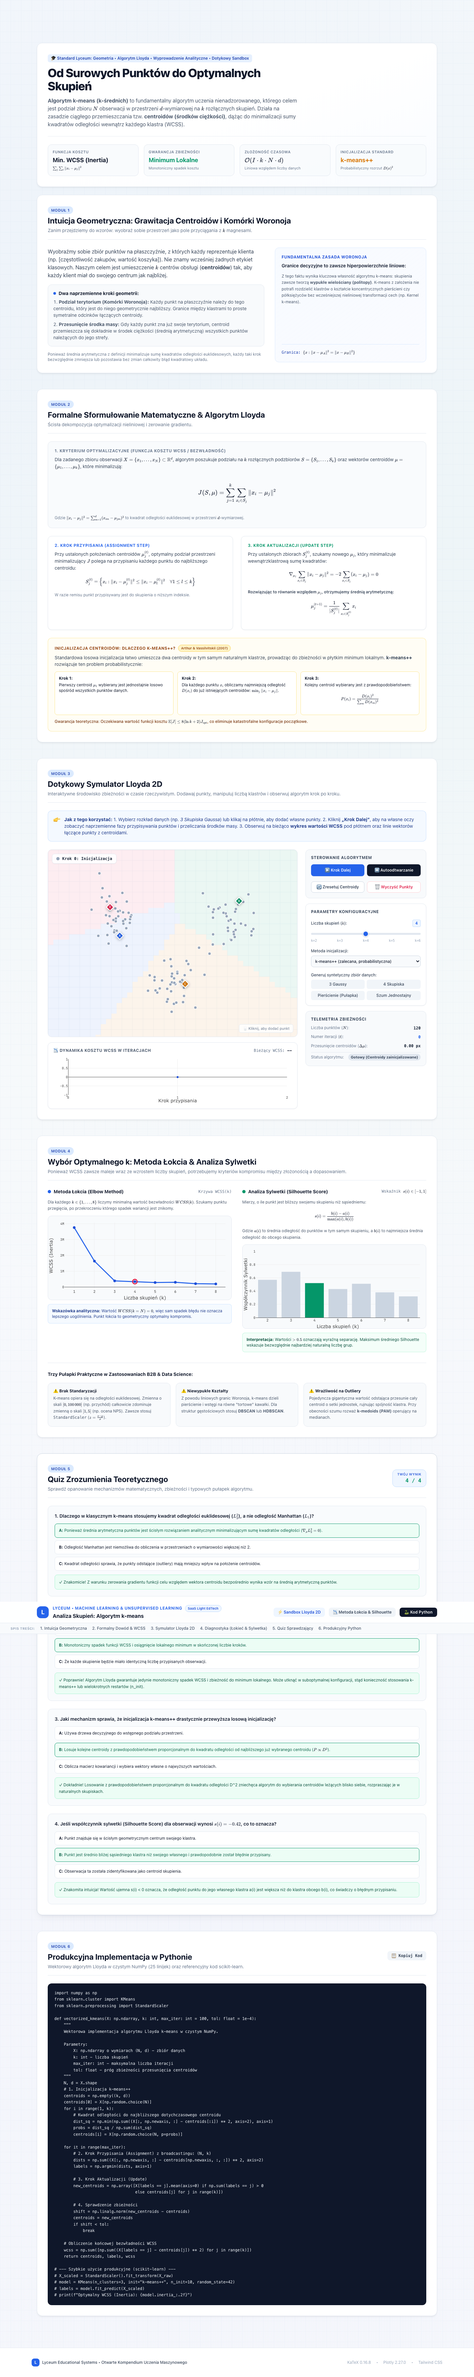
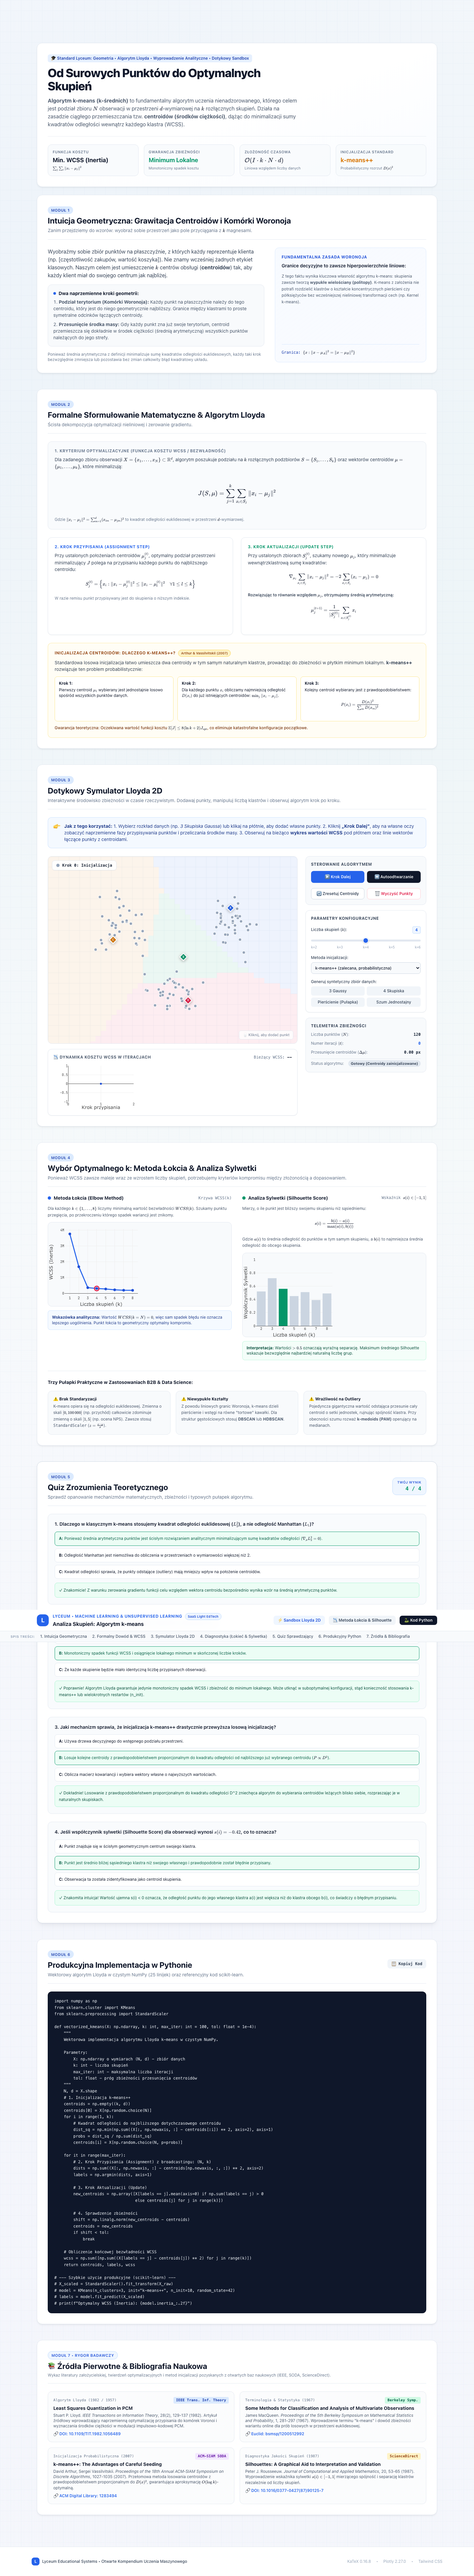
feat(lyceum): add primary sources bibliography, video renderer, and layout QA verification

diff --git a/index.html b/index.html
@@ -64,6 +64,7 @@
       <a href="#module4" class="hover:text-blue-600 transition-colors">4. Diagnostyka (Łokieć & Sylwetka)</a>
       <a href="#module5" class="hover:text-blue-600 transition-colors">5. Quiz Sprawdzający</a>
       <a href="#module6" class="hover:text-blue-600 transition-colors">6. Produkcyjny Python</a>
+      <a href="#module7" class="hover:text-blue-600 transition-colors">7. Źródła & Bibliografia</a>
     </nav>
   </header>
 
@@ -672,6 +673,85 @@ def vectorized_kmeans(X: np.ndarray, k: int, max_iter: int = 100, tol: float = 1
       </div>
       <div id="copyToast" class="hidden mt-3 p-2 bg-emerald-50 border border-emerald-200 text-emerald-800 text-xs font-semibold rounded-lg text-center">
         ✓ Skopiowano kod Pythona do schowka!
+      </div>
+    </section>
+
+    <!-- MODUŁ 7: 📚 Źródła Pierwotne & Bibliografia Naukowa -->
+    <section id="module7" class="saas-card p-6 sm:p-8">
+      <div class="border-b border-slate-200 pb-4 mb-6">
+        <span class="badge-pill bg-blue-50 text-blue-700 border border-blue-200">Moduł 7 • Rygor Badawczy</span>
+        <h3 class="text-xl sm:text-2xl font-bold text-slate-900 mt-1">
+          📚 Źródła Pierwotne & Bibliografia Naukowa
+        </h3>
+        <p class="text-xs text-slate-500 mt-1">
+          Wykaz literatury założycielskiej, twierdzeń optymalizacyjnych i metod inicjalizacji pozyskanych z otwartych baz naukowych (IEEE, SODA, ScienceDirect).
+        </p>
+      </div>
+
+      <div class="grid grid-cols-1 md:grid-cols-2 gap-4 text-xs">
+        <div class="p-4 rounded-xl border border-slate-200 bg-slate-50/50 hover:bg-slate-50 transition-colors">
+          <div class="flex items-center justify-between text-[11px] font-mono text-slate-500 mb-1">
+            <span>Algorytm Lloyda (1982 / 1957)</span>
+            <span class="px-2 py-0.5 rounded bg-blue-100 text-blue-800 font-semibold">IEEE Trans. Inf. Theory</span>
+          </div>
+          <h4 class="font-bold text-slate-900 text-sm mb-1">
+            Least Squares Quantization in PCM
+          </h4>
+          <p class="text-slate-600 mb-2">
+            Stuart P. Lloyd. <em>IEEE Transactions on Information Theory</em>, 28(2), 129-137 (1982). Artykuł źródłowy wprowadzający naprzemienną optymalizację przypisania do komórek Voronoi i wyznaczania środków ciężkości w modulacji impulsowo-kodowej PCM.
+          </p>
+          <a href="https://doi.org/10.1109/TIT.1982.1056489" target="_blank" rel="noopener noreferrer" class="inline-flex items-center gap-1 text-blue-600 font-semibold hover:underline">
+            <span>🔗 DOI: 10.1109/TIT.1982.1056489</span>
+          </a>
+        </div>
+
+        <div class="p-4 rounded-xl border border-slate-200 bg-slate-50/50 hover:bg-slate-50 transition-colors">
+          <div class="flex items-center justify-between text-[11px] font-mono text-slate-500 mb-1">
+            <span>Terminologia & Statystyka (1967)</span>
+            <span class="px-2 py-0.5 rounded bg-emerald-100 text-emerald-800 font-semibold">Berkeley Symp.</span>
+          </div>
+          <h4 class="font-bold text-slate-900 text-sm mb-1">
+            Some Methods for Classification and Analysis of Multivariate Observations
+          </h4>
+          <p class="text-slate-600 mb-2">
+            James MacQueen. <em>Proceedings of the 5th Berkeley Symposium on Mathematical Statistics and Probability</em>, 1, 281-297 (1967). Wprowadzenie terminu "k-means" i dowód zbieżności wariantu online dla prób losowych w przestrzeni euklidesowej.
+          </p>
+          <a href="https://projecteuclid.org/euclid.bsmsp/1200512992" target="_blank" rel="noopener noreferrer" class="inline-flex items-center gap-1 text-blue-600 font-semibold hover:underline">
+            <span>🔗 Euclid: bsmsp/1200512992</span>
+          </a>
+        </div>
+
+        <div class="p-4 rounded-xl border border-slate-200 bg-slate-50/50 hover:bg-slate-50 transition-colors">
+          <div class="flex items-center justify-between text-[11px] font-mono text-slate-500 mb-1">
+            <span>Inicjalizacja Probabilistyczna (2007)</span>
+            <span class="px-2 py-0.5 rounded bg-purple-100 text-purple-800 font-semibold">ACM-SIAM SODA</span>
+          </div>
+          <h4 class="font-bold text-slate-900 text-sm mb-1">
+            k-means++: The Advantages of Careful Seeding
+          </h4>
+          <p class="text-slate-600 mb-2">
+            David Arthur, Sergei Vassilvitskii. <em>Proceedings of the 18th Annual ACM-SIAM Symposium on Discrete Algorithms</em>, 1027-1035 (2007). Przełomowa metoda losowania centroidów z prawdopodobieństwem proporcjonalnym do \(D(x)^2\), gwarantująca aproksymację \(O(\log k)\)-optymalną.
+          </p>
+          <a href="https://doi.org/10.5555/1283383.1283494" target="_blank" rel="noopener noreferrer" class="inline-flex items-center gap-1 text-blue-600 font-semibold hover:underline">
+            <span>🔗 ACM Digital Library: 1283494</span>
+          </a>
+        </div>
+
+        <div class="p-4 rounded-xl border border-slate-200 bg-slate-50/50 hover:bg-slate-50 transition-colors">
+          <div class="flex items-center justify-between text-[11px] font-mono text-slate-500 mb-1">
+            <span>Diagnostyka Jakości Skupień (1987)</span>
+            <span class="px-2 py-0.5 rounded bg-amber-100 text-amber-800 font-semibold">ScienceDirect</span>
+          </div>
+          <h4 class="font-bold text-slate-900 text-sm mb-1">
+            Silhouettes: A Graphical Aid to Interpretation and Validation
+          </h4>
+          <p class="text-slate-600 mb-2">
+            Peter J. Rousseeuw. <em>Journal of Computational and Applied Mathematics</em>, 20, 53-65 (1987). Wyprowadzenie wskaźnika sylwetki \(s(i) \in [-1, 1]\) mierzącego spójność i separację klastrów niezależnie od liczby skupień.
+          </p>
+          <a href="https://doi.org/10.1016/0377-0427(87)90125-7" target="_blank" rel="noopener noreferrer" class="inline-flex items-center gap-1 text-blue-600 font-semibold hover:underline">
+            <span>🔗 DOI: 10.1016/0377-0427(87)90125-7</span>
+          </a>
+        </div>
       </div>
     </section>
 

diff --git a/styles.css b/styles.css
@@ -217,3 +217,28 @@ input[type="range"]::-webkit-slider-thumb:hover {
 .converged-pulse {
   animation: pulse-soft 2s infinite ease-in-out;
 }
+
+/* Responsive & Mobile Protection */
+.katex-display {
+  overflow-x: auto !important;
+  overflow-y: hidden !important;
+  max-width: 100% !important;
+  padding: 0.5rem 0 !important;
+}
+
+.katex-mathml {
+  display: none !important;
+}
+
+pre, code {
+  max-width: 100% !important;
+  overflow-x: auto !important;
+}
+
+table {
+  max-width: 100% !important;
+}
+
+td, th {
+  position: relative !important;
+}

diff --git a/render_video.py b/render_video.py
@@ -1,0 +1,86 @@
+import asyncio
+import os
+import subprocess
+from playwright.async_api import async_playwright
+
+async def render():
+    target_dir = os.path.dirname(os.path.abspath(__file__))
+    output_mp4 = os.path.join(target_dir, "explainer_preview.mp4")
+    temp_dir = os.path.join(target_dir, ".video_temp")
+    os.makedirs(temp_dir, exist_ok=True)
+
+    async with async_playwright() as p:
+        browser = await p.chromium.launch(headless=True)
+        context = await browser.new_context(
+            viewport={"width": 1920, "height": 1080},
+            record_video_dir=temp_dir,
+            record_video_size={"width": 1920, "height": 1080}
+        )
+        page = await context.new_page()
+
+        file_path = "file://" + os.path.join(target_dir, "index.html")
+        print(f"Loading {file_path} for programmatic video render...")
+        await page.goto(file_path, wait_until="networkidle")
+        await page.wait_for_timeout(1000)
+
+        # 1. Hero view
+        await page.wait_for_timeout(2000)
+
+        # 2. Scroll to Module 3 (Lloyd Interactive Simulator)
+        m3 = page.locator("#module3")
+        if await m3.count() > 0:
+            await m3.scroll_into_view_if_needed()
+            await page.wait_for_timeout(1000)
+            step_btn = page.locator("#stepBtn")
+            for _ in range(6):
+                if await step_btn.count() > 0:
+                    await step_btn.click()
+                await page.wait_for_timeout(500)
+
+        # 3. Change K slider
+        k_slider = page.locator("#kSlider")
+        if await k_slider.count() > 0:
+            await k_slider.evaluate("el => { el.value = '4'; el.dispatchEvent(new Event('input')); }")
+            await page.wait_for_timeout(1000)
+            step_btn = page.locator("#stepBtn")
+            for _ in range(4):
+                if await step_btn.count() > 0:
+                    await step_btn.click()
+                await page.wait_for_timeout(500)
+
+        # 4. Scroll to Module 4 (Elbow & Silhouette)
+        m4 = page.locator("#module4")
+        if await m4.count() > 0:
+            await m4.scroll_into_view_if_needed()
+            await page.wait_for_timeout(1500)
+
+        await context.close()
+        await browser.close()
+
+    video_files = [os.path.join(temp_dir, f) for f in os.listdir(temp_dir) if f.endswith(".webm")]
+    if not video_files:
+        raise RuntimeError("No recorded video found in temp dir")
+
+    recorded_webm = video_files[0]
+    print(f"Recorded webm: {recorded_webm}, transcoding to MP4 via ffmpeg...")
+
+    cmd = [
+        "/opt/homebrew/bin/ffmpeg", "-y",
+        "-i", recorded_webm,
+        "-c:v", "libx264",
+        "-pix_fmt", "yuv420p",
+        "-crf", "18",
+        "-preset", "fast",
+        "-movflags", "+faststart",
+        output_mp4
+    ]
+    subprocess.run(cmd, check=True)
+
+    for f in os.listdir(temp_dir):
+        os.remove(os.path.join(temp_dir, f))
+    os.rmdir(temp_dir)
+
+    print(f"Successfully generated: {output_mp4}")
+
+if __name__ == "__main__":
+    asyncio.run(render())

diff --git a/verify_site.py b/verify_site.py
@@ -74,7 +74,46 @@ async def run_tests():
         print(f"Final quiz score: {final_score}")
         assert "4 / 4" in final_score
 
-        # 5. Take screenshot
+        # Quality Gate: SVG Text Clipping & DOM Overflow Check
+        print("Running Quality Gate: SVG Text Clipping & DOM Overflow Check...")
+        clipped_svg = await page.evaluate('''() => {
+            const issues = [];
+            document.querySelectorAll('svg').forEach(svg => {
+                const vb = svg.viewBox.baseVal;
+                if (!vb || vb.width === 0) return;
+                svg.querySelectorAll('text, tspan').forEach(t => {
+                    const text = t.textContent.trim();
+                    if (!text) return;
+                    try {
+                        const bbox = t.getBBox();
+                        if (bbox.x < vb.x - 2 || (bbox.x + bbox.width) > (vb.x + vb.width + 2)) {
+                            issues.push({ text: text, x: bbox.x, width: bbox.width, vb_x: vb.x, vb_w: vb.width });
+                        }
+                    } catch (e) {}
+                });
+            });
+            return issues;
+        }''')
+        print(f"SVG Text clipping issues found: {len(clipped_svg)}")
+        assert len(clipped_svg) == 0, f"Found clipped SVG text elements: {clipped_svg}"
+
+        # Multi-viewport responsive tests
+        viewports = [
+            ("Desktop 1440px", {"width": 1440, "height": 900}),
+            ("Tablet 768px", {"width": 768, "height": 1024}),
+            ("Mobile 375px", {"width": 375, "height": 812})
+        ]
+        for name, vp in viewports:
+            await page.set_viewport_size(vp)
+            await page.wait_for_timeout(300)
+            has_h_scroll = await page.evaluate('''() => {
+                return document.documentElement.scrollWidth > window.innerWidth + 2;
+            }''')
+            print(f"Viewport {name} -> Horizontal scroll detected: {has_h_scroll}")
+            assert not has_h_scroll, f"Horizontal scroll detected on {name}!"
+
+        # Reset viewport to 1440px and capture verified screenshot
+        await page.set_viewport_size({"width": 1440, "height": 900})
         await page.screenshot(path="screenshot_verified.png", full_page=True)
         print("Screenshot saved to screenshot_verified.png")
 
